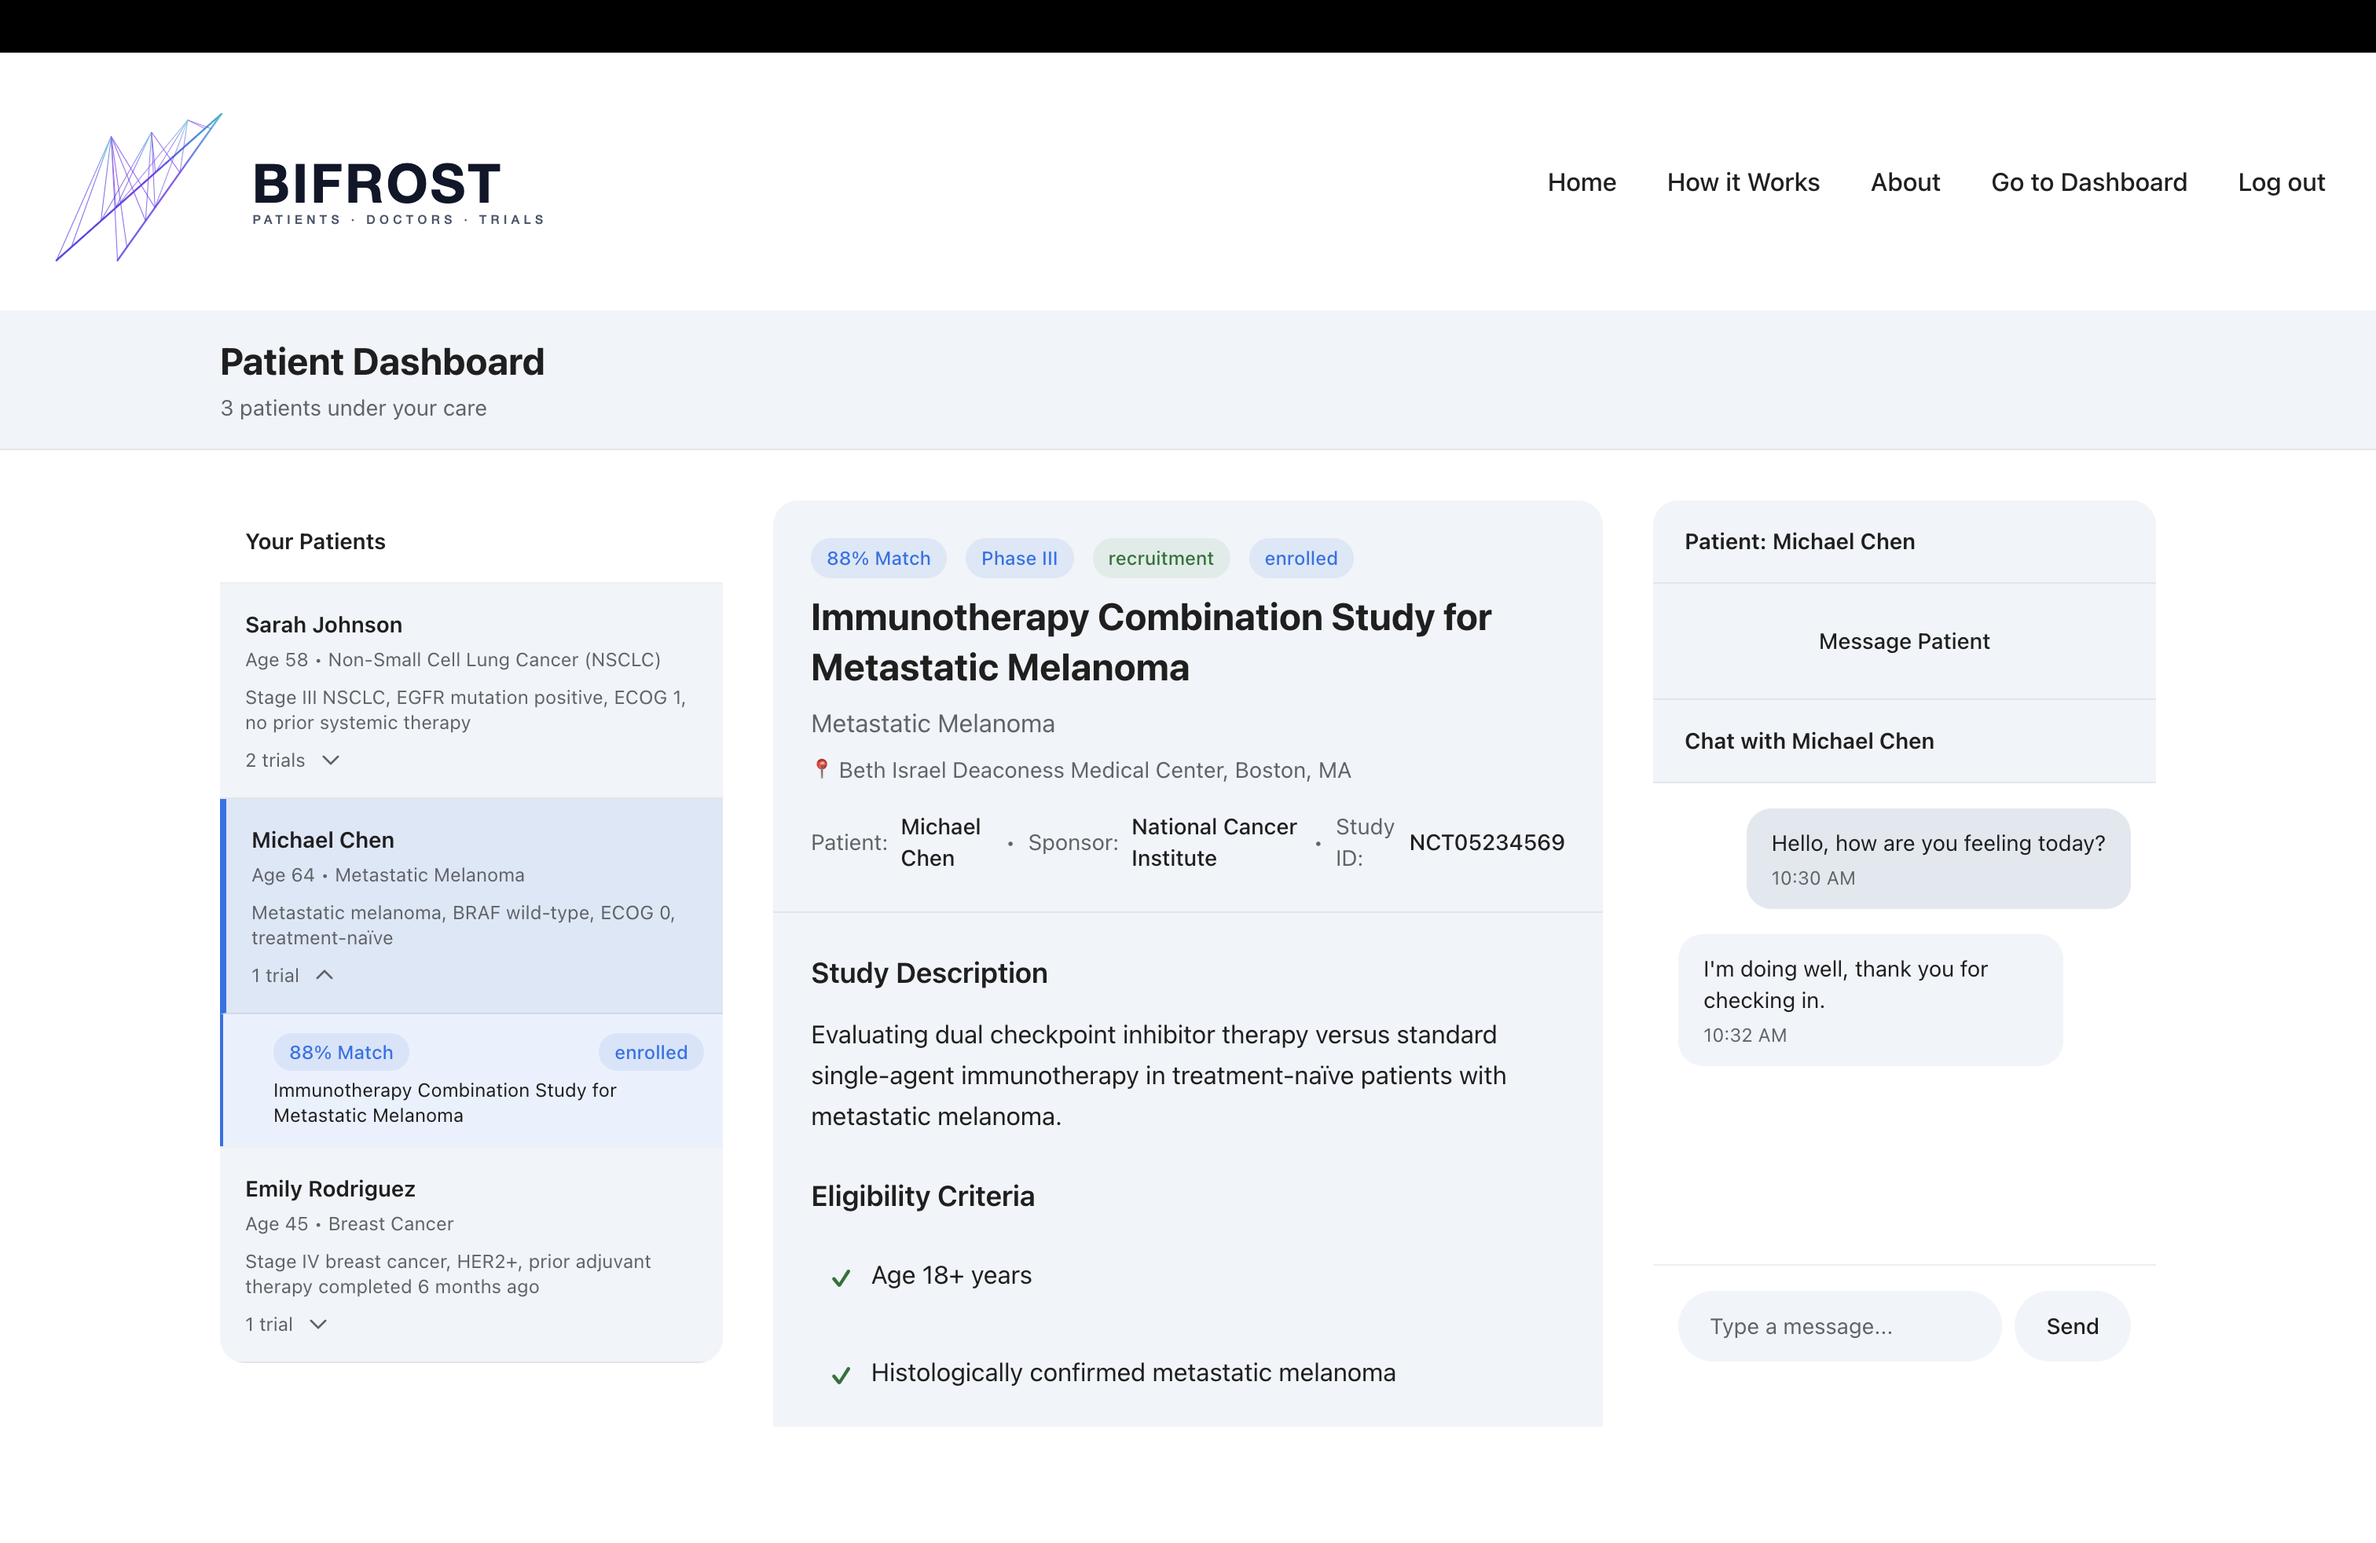
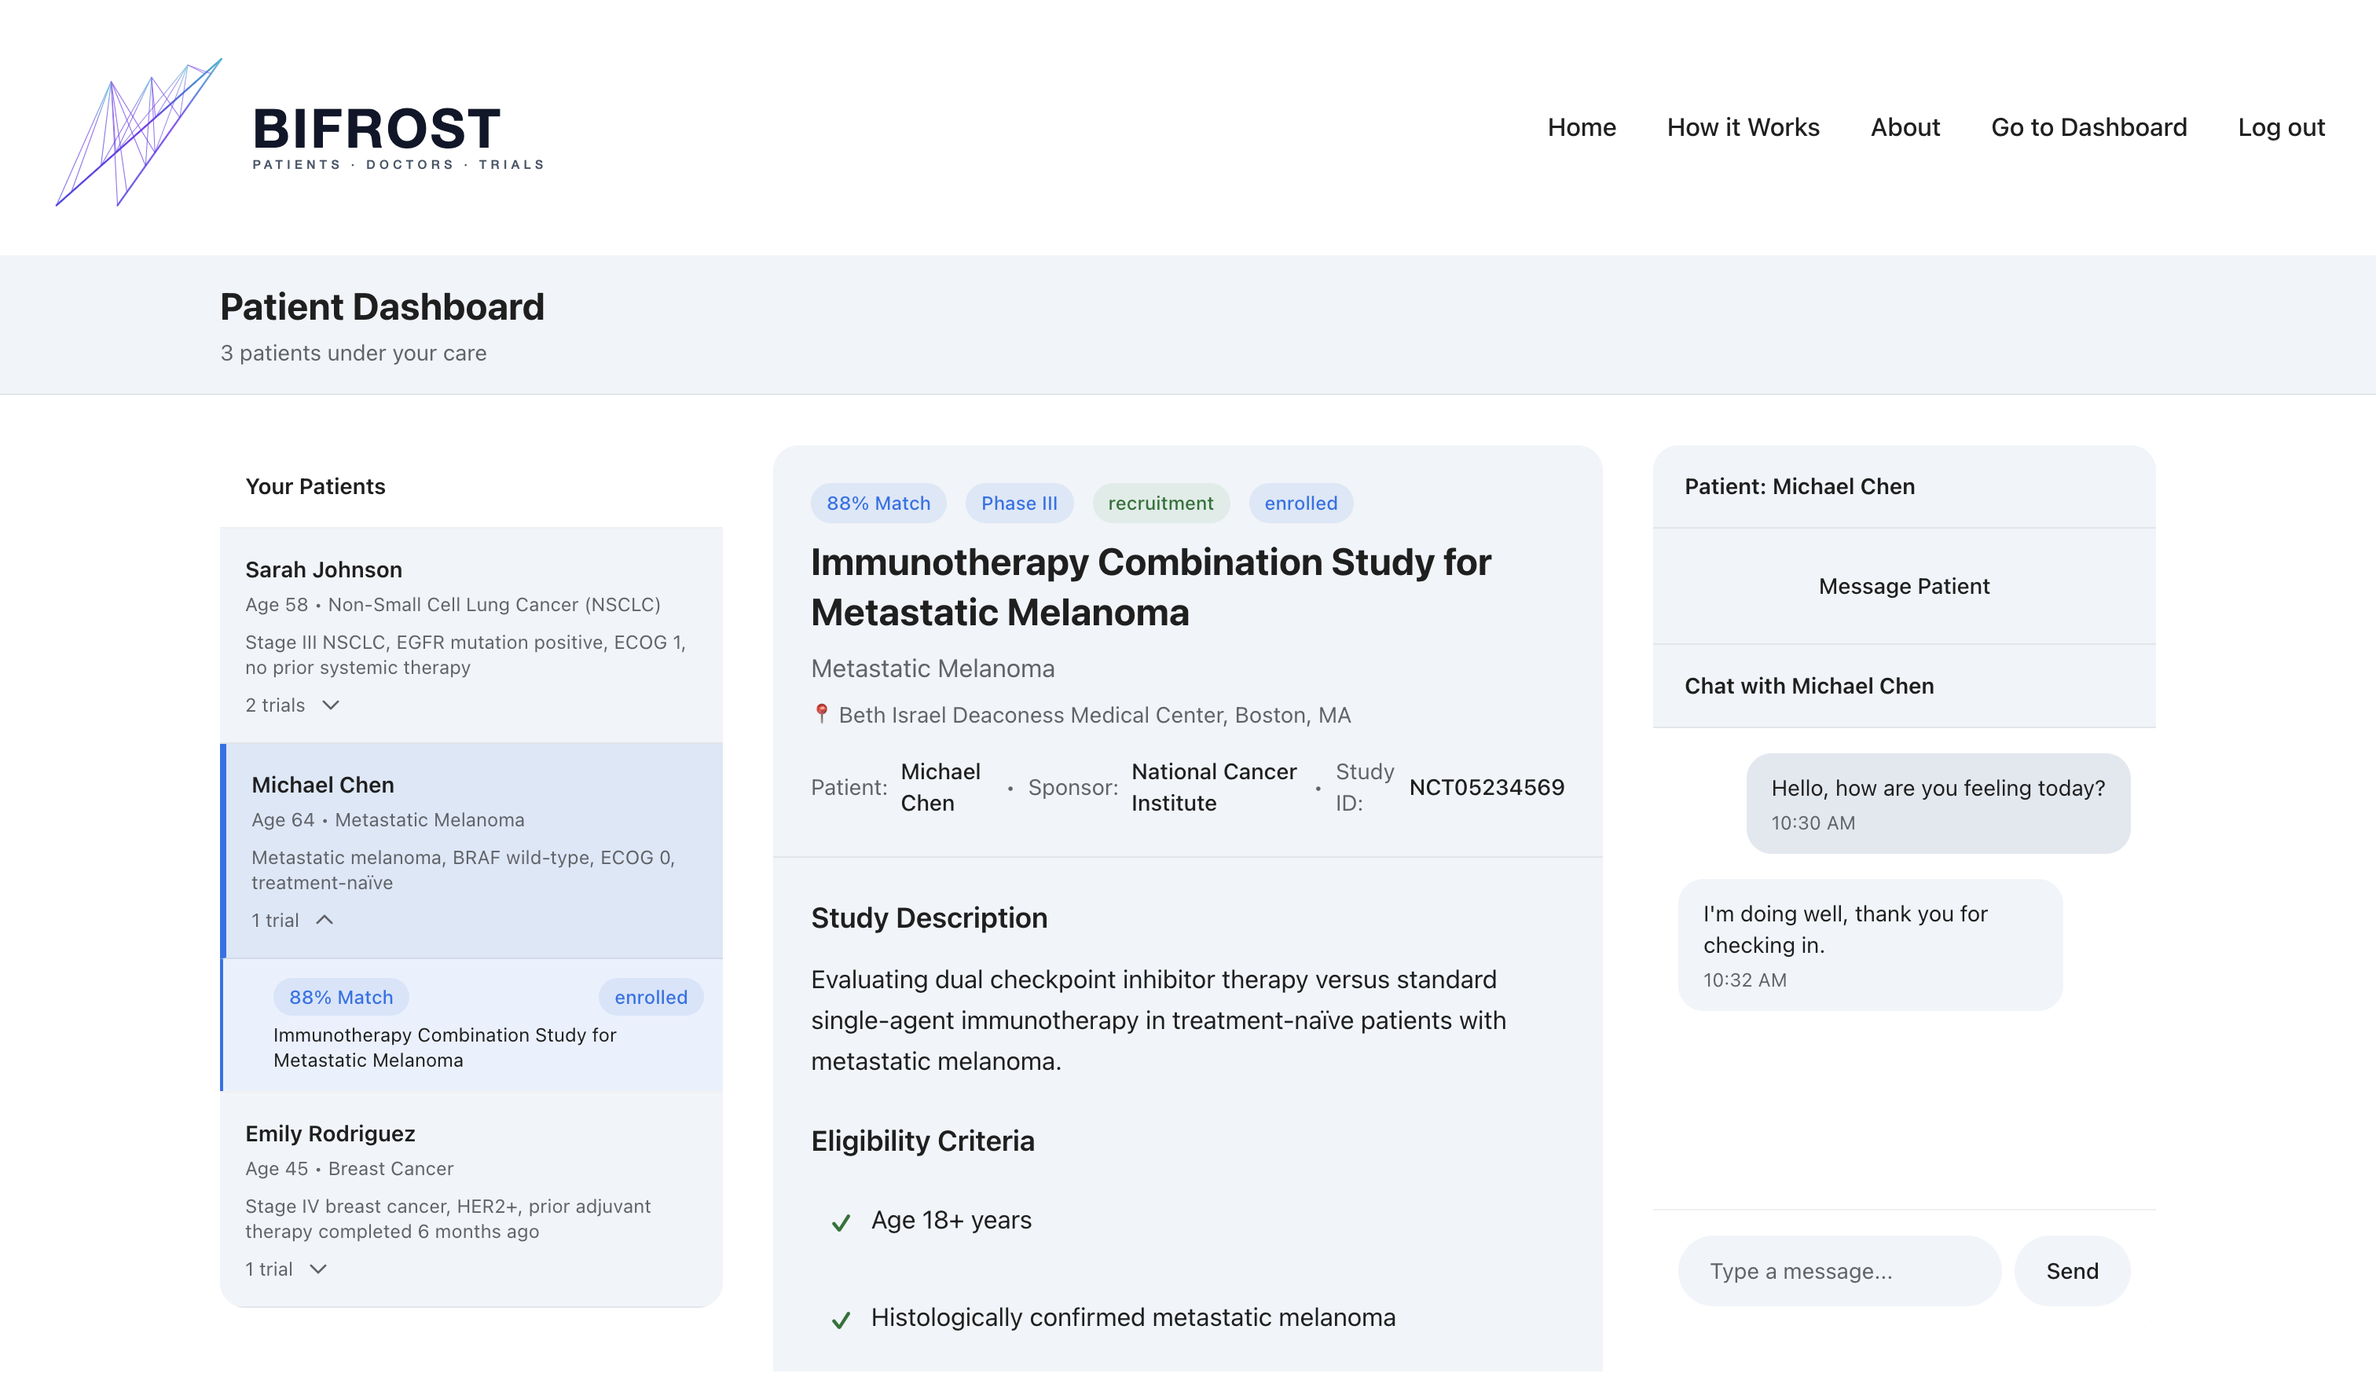
Bifrost overview image resizing. Momentum overview update

diff --git a/content/projects.ts b/content/projects.ts
@@ -146,21 +146,29 @@ export const projects: Project[] = [
         src: "/images/projects/cliniq/bifrost-landing-ss.png",
         alt: "BiFrost landing page showing the patient and trial onboarding flow.",
         caption: "Landing page",
+        width: 3024,
+        height: 1753,
       },
       {
         src: "/images/projects/cliniq/bifrost-dashboard-ss.png",
         alt: "BiFrost dashboard view summarizing clinical trial match data.",
         caption: "Dashboard view",
+        width: 3024,
+        height: 1753,
       },
       {
         src: "/images/projects/cliniq/bifrost-hero-demo-frame-1.jpg",
         alt: "BiFrost hero demo frame showing the onboarding and workflow experience.",
         caption: "Hero demo still 1",
+        width: 3024,
+        height: 1753,
       },
       {
         src: "/images/projects/cliniq/bifrost-hero-demo-frame-2.jpg",
         alt: "BiFrost hero demo frame showing navigation across the patient-trial match workflow.",
         caption: "Hero demo still 2",
+        width: 3024,
+        height: 1753,
       },
     ],
     documents: [],
@@ -168,22 +176,22 @@ export const projects: Project[] = [
       {
         id: "overview",
         title: "Overview",
-        body: "CliniQ is a TypeScript and Node.js application designed to match patients or trial records through structured data retrieval, parsing, and validation workflows.",
+        body: "BiFrost is a three-way TypeScript and Node.js clinical matching platform built to connect patients, doctors, and clinical trial investigators by orchestrating structured data intake, parsing, validation, and matching logic into a single operational workflow. That means an application that supports patient eligibility collection, trial discovery, medical document handling, and role-specific dashboards for patients, healthcare professionals, and investigators, all centered on turning clinical details into a consistent, usable matching model.",
       },
       {
         id: "data-workflow",
         title: "Data workflow",
-        body: "The application ingests inconsistent inputs, normalizes records, and validates the resulting database entries so downstream components can rely on consistent data access patterns.",
+        body: "The application begins with inconsistent inputs from multiple sources: patient forms capture age, diagnoses, biomarkers, lab values, ECOG status, and treatment history in varying formats, while ClinicalTrials.gov responses arrive as nested, semi-structured records with eligibility text that must be interpreted rather than trusted as-is. BiFrost normalizes these inputs into reusable profiles and transformed trial objects so that downstream logic can work with a stable schema instead of ad hoc field handling. This includes extracting age thresholds, sex constraints, exclusions, location details, and lab criteria from free-text eligibility rules. Once normalized, the matching engine validates records against patient profiles and produces ranked results with reasons and warnings, ensuring that the application operates on consistent, auditable data rather than raw or ambiguous strings.",
       },
       {
         id: "platform",
         title: "Platform and systems",
-        body: "The system uses PostgreSQL, Prisma, and REST APIs to manage relational data access and application logic. Data security is addressed with AES-256-GCM encryption and HTTPS/TLS protections for sensitive information in transit and at rest.",
+        body: "The project sits on a modern web and data stack combining TypeScript, Next.js, PostgreSQL, Prisma, Supabase, and REST APIs to support both application logic and secure relational data management. It uses ClinicalTrials.gov as an external trial source, Supabase for authentication and document storage, and Prisma/PostgreSQL to define and manage structured records in a maintainable way, creating a layered architecture where user interfaces, API routes, storage services, and relational models work together rather than in isolation. Security is a core part of the design, with AES-256-GCM encryption and HTTPS/TLS protections used to protect sensitive clinical information in transit and at rest, which is critical in a healthcare context where patient records, uploaded documents, and trial matching data all carry privacy implications.",
       },
       {
         id: "outcome",
         title: "Outcome",
-        body: "This project strengthened the core data platform for clinical matching by combining ingestion, validation, schema design, and secure storage into a single maintainable application flow.",
+        body: "This project strengthens the core clinical matching platform by combining ingestion, normalization, validation, and secure storage into one coherent application flow that is easier to maintain and extend over time. The result is a system that does more than display trial opportunities: it converts raw, heterogeneous data into a trusted decision-support layer that can compare patient profiles against eligibility criteria, manage document records responsibly, and support role-based clinical workflows across the patient journey. In practical terms, BiFrost turns fragmented clinical information into a structured matching engine that improves reliability, supports operational clarity, and provides a more solid foundation for future enhancements in healthcare trial coordination.",
       },
     ],
   },
@@ -231,8 +239,23 @@ export const projects: Project[] = [
       {
         id: "overview",
         title: "Overview",
-        body: "Momentum is a mobile productivity interface for building habits, managing daily routines, and tracking focused work sessions.",
+        body: "Momentum is a mobile productivity interface for building habits, managing daily routines, and tracking focused work sessions. There are three main features. An independent habit list in which you can keep track of any type, metric, and frequency of a habit. Then there is a focus timer that allows you to set a duration and track your progress through a session and lastly, an online, challenge based feature in which you can connect with friends to complete challenges together.",
       },
+      {
+        id: "data-workflow",
+        title: "Data workflow",
+        body: "The application takes in quantitative and qualitative data from the user, such as habit completion, session duration, and challenge progress. This data is then stored using Firebase Firestore and is used to update the user interface in real-time. The application also uses local notifications to remind users of their habits and focus sessions, and it provides analytics on habit completion and focus session performance. User-to-user data interactions are stored in Firestore and are used to allow users to see their friends' progress and compete in challenges.",
+      },
+      {
+        id: "platform",
+        title: "Platform and systems",
+        body: "The project sits on a Swift-based mobile framework with a modern architecture supporting reactive programming and seamless integration with Apple's ecosystem.",
+      },
+      {
+        id: "outcome",
+        title: "Outcome",
+        body: "This project has provided a robust solution for managing daily routines and building productive habits, with a focus on user engagement and real-time feedback.",
+      }
     ],
   },
 ];
